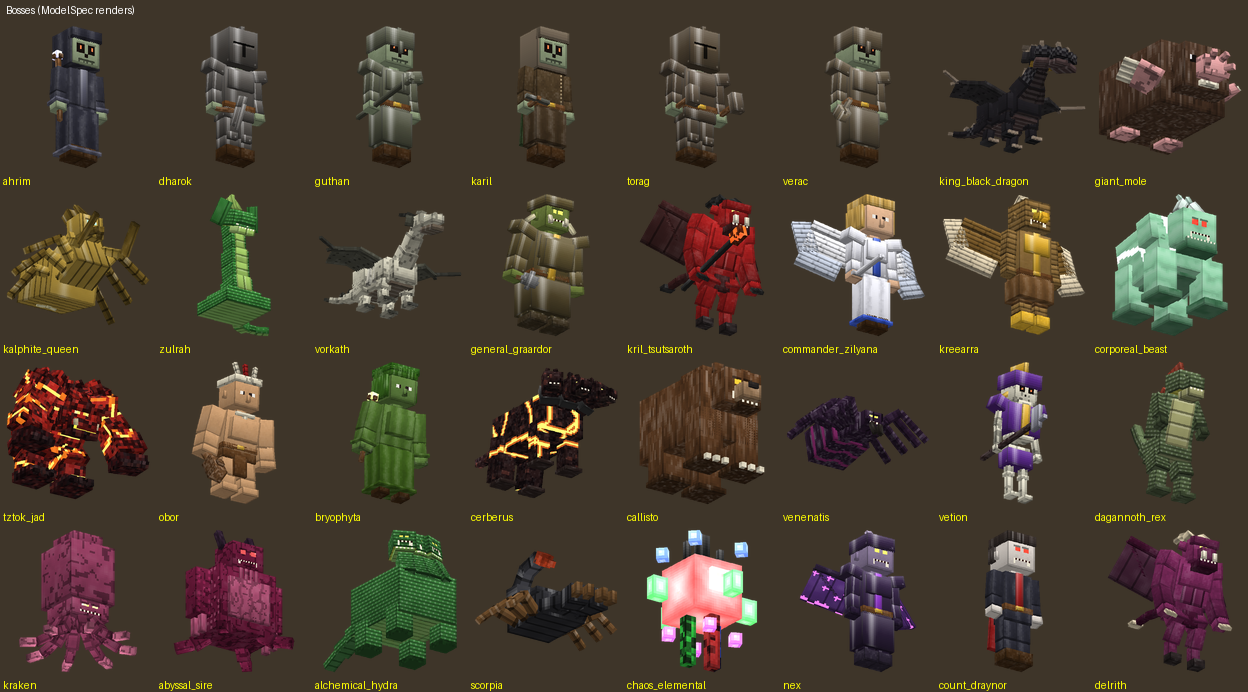
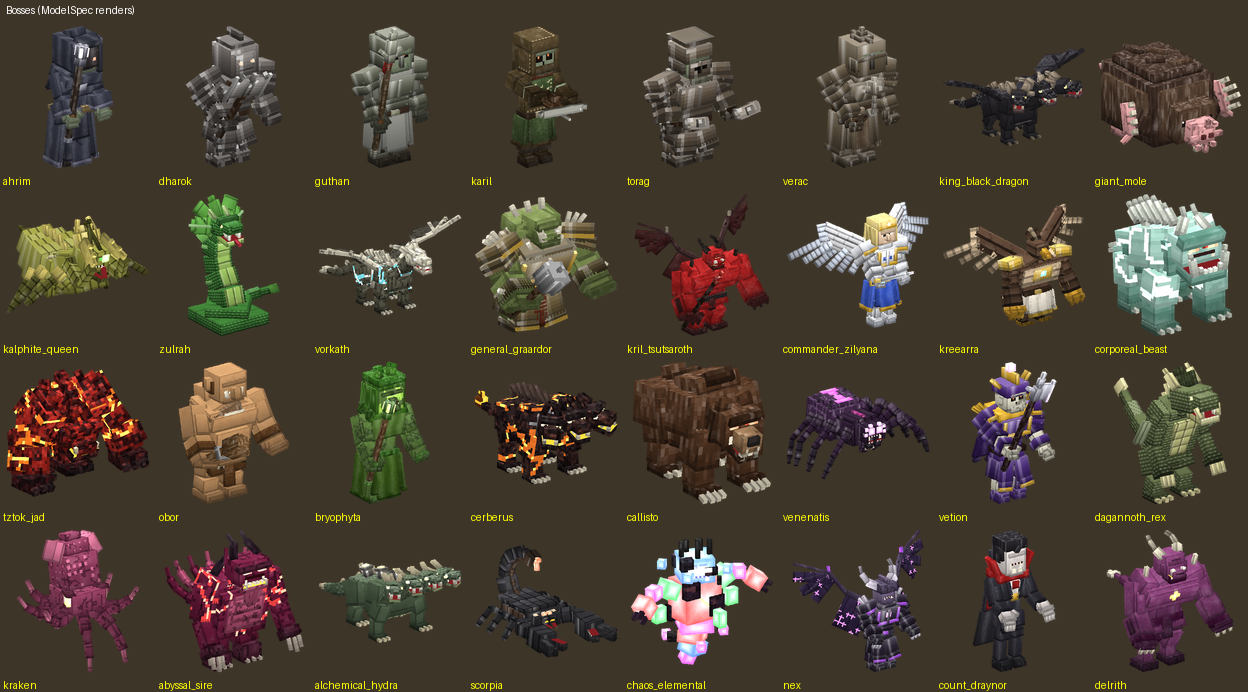
Monster models: banshee in OSRS greys, gorak face, model previews (docs/previews/models), sheets re-rendered from above
Claude-Session: https://claude.ai/code/session_01RfWEHHvJdDGvqx7chzrVRf

diff --git a/src/main/java/com/runecraft/osrs/content/bestiary/BestiaryLookalikes.java b/src/main/java/com/runecraft/osrs/content/bestiary/BestiaryLookalikes.java
@@ -110,12 +110,12 @@ final class BestiaryLookalikes {
     static ModelSpec gorak() {
         int skin = 0x7468B0;
         int dk = 0x3E3670;
-        Fig f = fig("gwd_gorak").legs(9, 5).torso(10, 10, 15, 8, 5, 8).arms(18, 5, 5).head(6, 6, 6).pose(32, 5, 14)
+        Fig f = fig("gwd_gorak").legs(9, 5).torso(10, 10, 15, 8, 5, 8).arms(18, 5, 5).head(7, 8, 7).pose(22, 5, 14)
                 .armPitch(-22, -22).skin(skin, "hide").shadow(1.0f);
         f.foreBend = 24;
-        f.core(dk, "hide", skin, "hide", skin, "hide").muscles(skin).head("monster", 0xFF3020)
+        f.core(dk, "hide", skin, "hide", skin, "hide").muscles(BestiaryLookalikes.mixRgb(skin, 0xE0D8F0, 0.25f)).head("monster", 0xFF3020)
                 .beastFace(darker(skin, 0.9f), dk, IVORY, false)
-                .armsBuild(skin, "hide", skin, "hide", dk, "hide").claws(0x2A2230, 2)
+                .armsBuild(skin, "hide", darker(skin, 0.88f), "hide", dk, "hide").claws(0x2A2230, 2)
                 .legsBuild(skin, "hide", darker(skin, 0.9f), "hide", dk, "hide").hump(skin, "hide", 12, 4, 6);
         f.p("gorak_crest", "head", dk).at(0, -f.headH, 0.5f).rot(-20, 0, 0).mat("hide").box(-1, -2, -2.5f, 2, 2, 5).add();
         f.s("gorak_ear", "head", false, skin).at(f.headW / 2f, -3.5f, 0.5f).rot(0, -20, -35).mat("hide").box(0, -1, -0.5f, 3, 2, 1).add();

diff --git a/src/main/java/com/runecraft/osrs/content/bestiary/BestiarySlmLow.java b/src/main/java/com/runecraft/osrs/content/bestiary/BestiarySlmLow.java
@@ -22,7 +22,7 @@ final class BestiarySlmLow {
         l.add(crawlingHand("crawling_hand"));
         l.add(caveBug("cave_bug"));
         l.add(caveCrawler("cave_crawler"));
-        l.add(banshee("banshee", 0xE8E6DC, 0xDCDAD0, 0xF4F2EA));
+        l.add(banshee("banshee", 0xBCC2B0, 0xC6C2B4, 0xEEECE4)); // OSRS: pale grey-green skin, ragged grey-cream robe, white hair
         l.add(jelly("cave_slime", 0x6A9A3A, 0.7f));
         l.add(jelly("jelly", 0x5A9AC8, 1.0f));
         l.add(rockslug("rockslug"));
